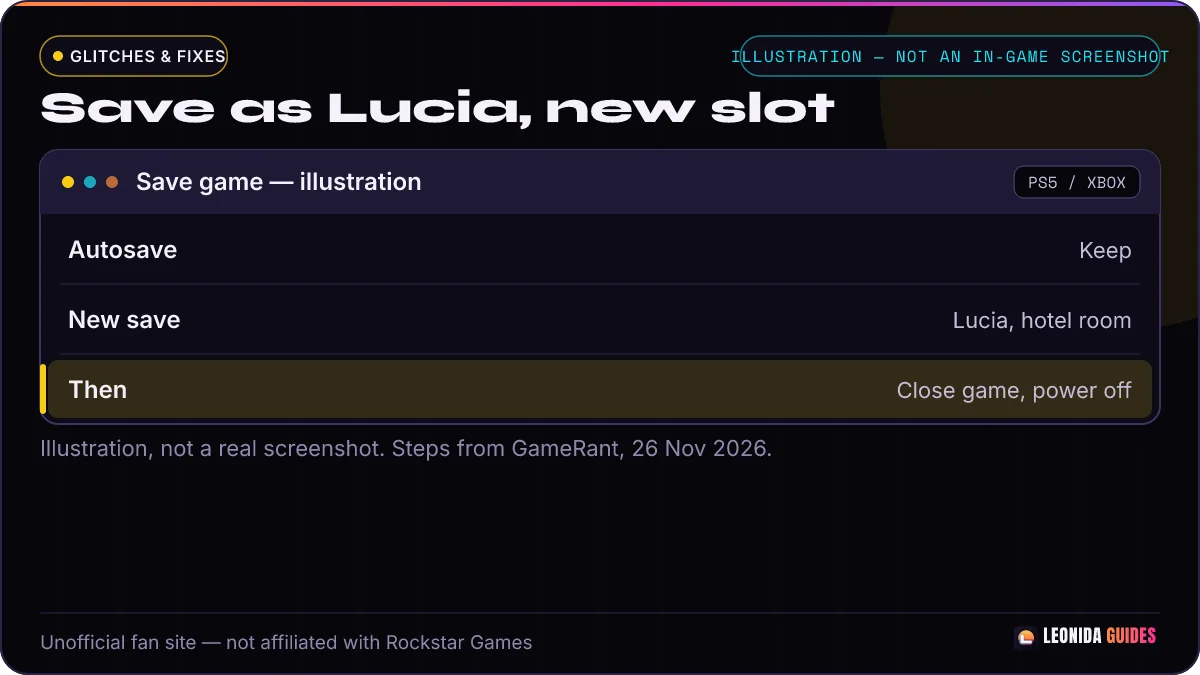
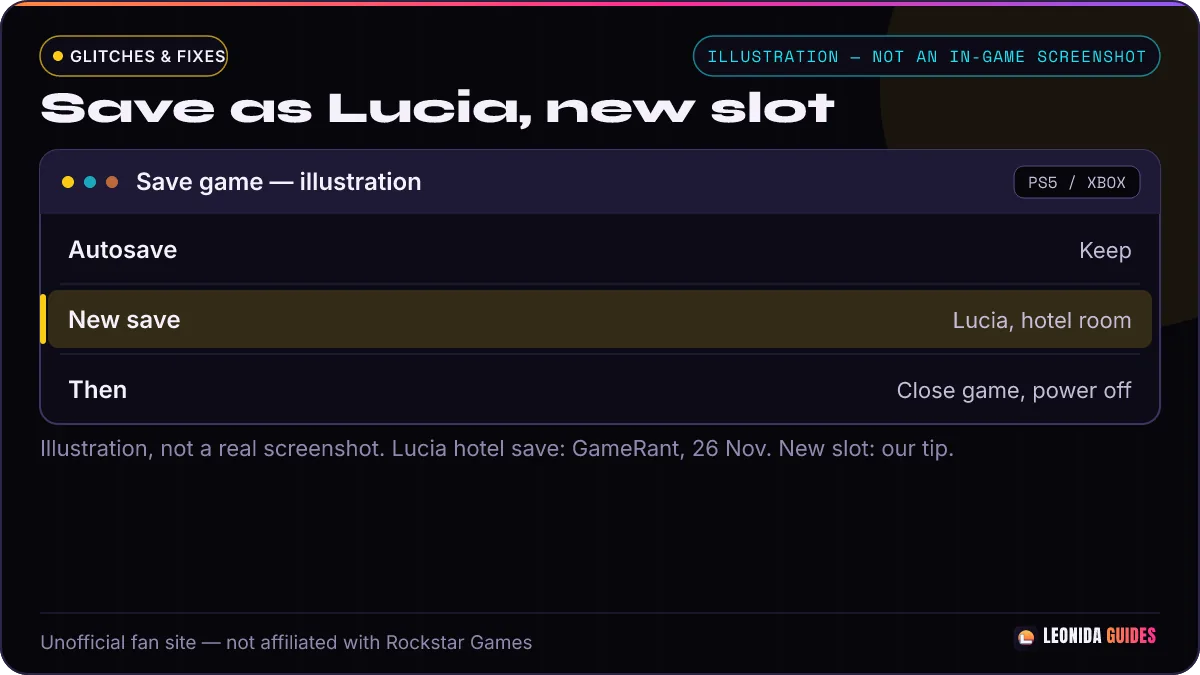
content: auto-publish 2026-11-26T19:34:07.202Z

Changed region(s): [[0.0308, 0.4044, 0.9867, 0.6222], [0.3083, 0.6533, 0.8017, 0.6844], [0.5858, 0.0311, 0.9867, 0.1244]]

diff --git a/content/gta-6-story-stuck-call-not-coming.md b/content/gta-6-story-stuck-call-not-coming.md
@@ -11,127 +11,132 @@ sources:
   - "GameRant | https://gamerant.com/gta-6-raul-plan-glitch-not-calling-lucia-fix-how-ps5-xbox/"
   - "r/GTA6unmoderated thread | https://www.reddit.com/r/GTA6unmoderated/comments/1y1slnh/raul_will_call_lucia_glitch/"
   - "Rockstar Support, GTA VI Launch Updates | https://support.rockstargames.com/articles/sN5pEdFYZdlvijKXd6xpJ/grand-theft-auto-vi-launch-updates-ps5-xbox-series-x-or-s"
+  - "Polygon | https://www.polygon.com/gta-6-update-today-ver-01002002-where-is-ps5-xbox-download-size-patch-notes/"
+  - "VGC | https://www.videogameschronicle.com/news/grand-theft-auto-6-has-received-a-new-patch-which-fixes-autosaving/"
 updated: 2026-11-26
 published: 2026-11-26
 status: live
 publish: true
-spoilers: minor
+spoilers: major
 qa: pending
+draft: true
 ---
 
 # GTA 6 Story Stuck at 72%? Fix for the Call That Never Comes
 
-> - **Quick answer:** finish **every optional job** for the jewelry fence, then **save as Lucia**, fully restart the console and load that save (GameRant, players on Reddit).
-> - **Affects:** PS5 and Xbox Series X|S, at about **72% of the main story**. Update 01.002.002 did not fix it for everyone (GameRant).
-> - **Status: working workaround**, checked 2026-11-26. It worked for GameRant's editor and many players, but not for all.
+> - **Quick answer:** finish the fence's leftover jobs, then **save as Lucia**, fully restart the console and load that save (GameRant, several players on Reddit).
+> - **Affects:** PS5 and Xbox Series X|S, at about **72% of the main story**. The 23 Nov update (version 01.002.002, Polygon, VGC) did not fix it for everyone (GameRant).
+> - **Status: working workaround**, checked 2026-11-26. It worked for GameRant's editor and several players in one Reddit thread, but not for all.
 
 **Words used on this page.** A *softlock* is when the game keeps running but the story cannot go on. A *patch* is an update that fixes mistakes. A *fence* is a person who buys stolen goods. *Split up* means Jason and Lucia go separate ways.
+
+⚠ **Spoiler warning:** some boxes on this page name later story characters and missions. Tap a box only if you want to know.
 
 *Story mode, PS5 and Xbox. No mods or PC tools. Character names below are hidden in spoiler blocks.*
 
 ## Symptoms
 
 - At about **72%** main story completion, a mission tells **Lucia** to wait for a phone call.
-- The call never comes, even after hours of play, sleeping or restarting the game (GameRant).
+- The call never comes, no matter how much time passes (GameRant). GameRant also says a hard reset alone did not help.
 
 :::spoiler Which call and which mission (names a story character)
 GameRant says the mission is **Raul's Plan**: Lucia waits for **Raul** to call, and he never does.
 :::
 
-![Our diagram: a phone with no incoming call and a story bar stuck at 72%. Not a game screenshot.](TODO: image:gta-6-story-stuck-call-not-coming-step-1 — diagram, our own art: silent phone next to a story progress bar stopped at 72%)
+![Our diagram: three boxes that say About 72%, No call, and Both consoles. Not a game screenshot.](TODO: image:gta-6-story-stuck-call-not-coming-step-1 — diagram, our own art: three info cards labelled About 72%, No call, and Both consoles)
 *Caption: Diagram. The bug: the story waits for a call that never comes.*
 
 ## Who is affected
 
 | Platform | Affected? | Version / patch | Source |
 |---|---|---|---|
-| PS5 | Yes | 01.002.002 | GameRant, Reddit |
-| Xbox Series X\|S | Yes | 01.002.002 | GameRant, Reddit |
+| PS5 | Yes | 01.002.002 (23 Nov) | Affected: GameRant, Reddit. Version: Polygon, VGC |
+| Xbox Series X\|S | Yes | 01.002.002 (23 Nov) | Affected: GameRant, Reddit. Version: Polygon, VGC |
 
 ## Fixes, fastest first
 
 Save your game in a **new slot** before you try anything.
 
-### Fix 1: Finish the fence's optional jobs (about 20 to 60 minutes)
+### Fix 1: Finish the fence's leftover jobs
 
-1. Open the map and check the jobs from the **jewelry fence**. Do the optional ones too, not only the story ones.
-2. Rob the stores they send you to. One store may not show on the map, so check the list twice ([u/jastheneet](https://www.reddit.com/r/GTA6unmoderated/comments/1y1slnh/raul_will_call_lucia_glitch/19szb6o9jvja9/)).
-3. Deliver the stolen pieces to the fence.
+1. Open the map and check the jobs from the **fence**. Do the leftover ones too, not only the story ones.
+2. GameRant's editor needed the optional jobs you pay the fence for tips. For him, that meant robbing a couple of cash-advance stores. Several players in one Reddit thread needed all 3 jewelry jobs instead ([u/DjCedrics](https://www.reddit.com/r/GTA6unmoderated/comments/1y1slnh/raul_will_call_lucia_glitch/19szznxob2w6c/), [u/jastheneet](https://www.reddit.com/r/GTA6unmoderated/comments/1y1slnh/raul_will_call_lucia_glitch/19szb6o9jvja9/)).
+3. One job may not show on the map, so check the list twice ([u/jastheneet](https://www.reddit.com/r/GTA6unmoderated/comments/1y1slnh/raul_will_call_lucia_glitch/19szb6o9jvja9/)).
 4. Switch to **Lucia** and **split up** from Jason.
-5. Walk around for a minute or two. Players say the call came within about 2 minutes ([u/newbee_Nerd_69](https://www.reddit.com/r/GTA6unmoderated/comments/1y1slnh/raul_will_call_lucia_glitch/19szdug1x7ejn/)).
+5. Walk around for a short time. One player says the call came within about 2 minutes ([u/newbee_Nerd_69](https://www.reddit.com/r/GTA6unmoderated/comments/1y1slnh/raul_will_call_lucia_glitch/19szdug1x7ejn/)).
 
 GameRant's editor says a console restart alone did not help until these jobs were done.
 
-:::spoiler Who the jewelry fence is (names a Chapter 3 character)
-The fence is **Yasmani**. GameRant says some of the jobs need you to pay him for tips. Players say all **3** jewelry jobs must be done ([u/DjCedrics](https://www.reddit.com/r/GTA6unmoderated/comments/1y1slnh/raul_will_call_lucia_glitch/19szznxob2w6c/), [u/jastheneet](https://www.reddit.com/r/GTA6unmoderated/comments/1y1slnh/raul_will_call_lucia_glitch/19szb6o9jvja9/)).
+:::spoiler Who the fence is (names a Chapter 3 character)
+The fence is **Yasmani**. GameRant needed his paid-tip jobs (cash-advance store robberies). Several players needed all 3 jewelry jobs ([u/DjCedrics](https://www.reddit.com/r/GTA6unmoderated/comments/1y1slnh/raul_will_call_lucia_glitch/19szznxob2w6c/), [u/jastheneet](https://www.reddit.com/r/GTA6unmoderated/comments/1y1slnh/raul_will_call_lucia_glitch/19szb6o9jvja9/)).
 :::
 
-### Fix 2: Save as Lucia and fully restart (about 5 minutes)
+### Fix 2: Save as Lucia and fully restart
 
 1. Clear every notification and reminder on **Lucia's phone** (GameRant).
 2. Make sure Jason and Lucia are **split up**.
 3. As Lucia, **save** in the Vice City hotel room (GameRant).
-4. Close the game. **PS5:** press the **Options button** on GTA 6 on the home screen, then **Close Game**. **Xbox:** press the **Xbox button**, highlight GTA 6, press the **Menu button**, then **Quit**.
-5. Turn the console **fully off**. Do not use Rest Mode or Quick Resume. GameRant held the power button for 10 to 30 seconds.
-6. Start the game, load the save and leave the room **as Lucia only**.
+4. Close the game, then turn the console **fully off**. GameRant held the power button for 10 to 30 seconds (a hard reset).
+5. Start the game, load the save and leave the room **as Lucia only**.
 
-Players say missed texts and calls can arrive all at once after this ([u/yuvra109](https://www.reddit.com/r/GTA6unmoderated/comments/1y1slnh/raul_will_call_lucia_glitch/19t1th4y6mmox/)).
+One player says missed texts and calls can arrive all at once after this ([u/yuvra109](https://www.reddit.com/r/GTA6unmoderated/comments/1y1slnh/raul_will_call_lucia_glitch/19t1th4y6mmox/)).
 
 ![Our drawing of a save menu with a new save slot picked as Lucia. Not a real screenshot.](TODO: image:gta-6-story-stuck-call-not-coming-step-2 — menu screen, our own illustration: save game list with "New save" highlighted and a Lucia icon)
 *Caption: Menu screen. Save as Lucia in a new slot before you restart.*
 
-### Fix 3: Sleep or save and reload (about 2 minutes)
+### Fix 3: Sleep, or save and reload
 
 1. Go to the hotel and **sleep** until noon ([u/EvilResident168](https://www.reddit.com/r/GTA6unmoderated/comments/1y1slnh/raul_will_call_lucia_glitch/19t1r4jg03tyd/)).
-2. Or **save**, then **load** that save straight away ([u/AnonymousWelshGuy](https://www.reddit.com/r/GTA6unmoderated/comments/1y1slnh/raul_will_call_lucia_glitch/19szhzs1f3n1h/)).
+2. One player says they **saved**, **loaded**, then slept at the hotel, and the call came straight away ([u/AnonymousWelshGuy](https://www.reddit.com/r/GTA6unmoderated/comments/1y1slnh/raul_will_call_lucia_glitch/19szhzs1f3n1h/)).
+3. The same player also suggested save then load only, but that was a suggestion, not a report that it worked ([u/AnonymousWelshGuy](https://www.reddit.com/r/GTA6unmoderated/comments/1y1slnh/raul_will_call_lucia_glitch/19szdaqp4rejo/)).
 
 These are single player reports. They are quick, so try them, but they did not work for everyone.
 
 ### Fix 4: Check other open story jobs
 
 :::spoiler Other jobs players finished before the call came (names story characters)
-- A player says finishing **Randy's** car theft story mission made the call come within seconds ([u/BeenThereDoneThat05](https://www.reddit.com/r/GTA6unmoderated/comments/1y1slnh/raul_will_call_lucia_glitch/19t2dq8rbdz6t/)).
+- A player says finishing **Randy's** car theft story mission made the call come within 2 seconds ([u/BeenThereDoneThat05](https://www.reddit.com/r/GTA6unmoderated/comments/1y1slnh/raul_will_call_lucia_glitch/19t2dq8rbdz6t/)).
 - Another says doing Lucia's phone reminders led to a new job and a call from **Mia**, Lucia's mum, and then the call came ([u/KingofLeonida](https://www.reddit.com/r/GTA6unmoderated/comments/1y1slnh/raul_will_call_lucia_glitch/19t1en728j71f/)).
 - GameRant says after its fix, a different character called first with a new story mission. Only after that, and after paying the lawyer **$75,000**, did the call come.
 - Last resort: one player loaded an older save and did everything else before paying the lawyer ([u/TheMentalMadman](https://www.reddit.com/r/GTA6unmoderated/comments/1y1slnh/raul_will_call_lucia_glitch/19t21qc4eondu/)).
 :::
 
-![Our flow chart: fence jobs, save as Lucia and restart, sleep, check other jobs, then contact Support. Not a game screenshot.](TODO: image:gta-6-story-stuck-call-not-coming-step-3 — diagram, our own flow chart: Fix 1 > Fix 2 > Fix 3 > Fix 4 > Contact Support)
+![Our flow chart: leftover fence jobs, save as Lucia and restart, sleep, check other jobs, then contact Support. Not a game screenshot.](TODO: image:gta-6-story-stuck-call-not-coming-step-3 — diagram, our own flow chart: Fix 1 > Fix 2 > Fix 3 > Fix 4 > Contact Support)
 *Caption: Diagram. Try the fixes in this order.*
 
 ## Official patch status
 
 | Item | Detail |
 |---|---|
-| Latest patch | 01.002.002, 23 Nov 2026 |
-| Does it fix this? | The notes list a fix for phone calls not triggering, including story calls. GameRant says this bug still happens after it. |
+| Latest patch | 01.002.002, 23 Nov 2026 (version: [Polygon](https://www.polygon.com/gta-6-update-today-ver-01002002-where-is-ps5-xbox-download-size-patch-notes/), [VGC](https://www.videogameschronicle.com/news/grand-theft-auto-6-has-received-a-new-patch-which-fixes-autosaving/); date and notes: [Rockstar Support](https://support.rockstargames.com/articles/sN5pEdFYZdlvijKXd6xpJ/grand-theft-auto-vi-launch-updates-ps5-xbox-series-x-or-s)) |
+| Does it fix this? | The notes list a fix for phone calls not triggering, including story calls. GameRant says this bug still happens after it. One player, [u/jastheneet](https://www.reddit.com/r/GTA6unmoderated/comments/1y1slnh/raul_will_call_lucia_glitch/19szb6o9jvja9/), later edited their post to say Rockstar seems to have resolved this issue. |
 | Patch notes | [Rockstar Support, Launch Updates](https://support.rockstargames.com/articles/sN5pEdFYZdlvijKXd6xpJ/grand-theft-auto-vi-launch-updates-ps5-xbox-series-x-or-s) |
 | Last checked | 2026-11-26 |
 
-**Status: working workaround** (checked 2026-11-26). GameRant's editor fixed their own save with Fix 1 and Fix 2. Some players on Reddit say nothing worked for them yet. Not tested by us.
+**Status: working workaround** (checked 2026-11-26). GameRant's editor fixed their own save with Fix 1 and Fix 2. Some players on Reddit say nothing worked for them yet. One player later edited their comment to say it seems resolved, while GameRant still saw the bug after the patch. Not tested by us.
 
 ## When to contact Support
 
-- **Gameplay, patches, bugs:** [Rockstar Support](https://support.rockstargames.com/). Players in the thread say they sent tickets. More reports help Rockstar find the bug.
+- **Gameplay, patches, bugs:** [Rockstar Support](https://support.rockstargames.com/). One player in the thread, [u/jastheneet](https://www.reddit.com/r/GTA6unmoderated/comments/1y1slnh/raul_will_call_lucia_glitch/19sys5py0uau8/), says they sent a ticket. More reports help Rockstar find the bug.
 - **Account or console problems:** PlayStation Support or Xbox Support.
 
 ## FAQ
 
 ### Why is my GTA 6 story stuck at 72%?
-A phone call that starts the next mission does not trigger. Rockstar has not said why. Unfinished optional jobs seem to block it for many players.
+A phone call that starts the next mission does not trigger. Rockstar has not said why. Unfinished leftover jobs seem to block it for GameRant's editor and several players in one Reddit thread.
 
 ### Do I have to start a new game?
-Usually not. GameRant and many players fixed it on their save. Try every fix above first.
+Usually not. GameRant's editor and several players in one Reddit thread fixed it on their save. Try every fix above first.
 
 ### Did the patch fix it?
-The 23 Nov patch notes list a fix for story calls not triggering, but GameRant says the bug still happens.
+The 23 Nov patch notes list a fix for story calls not triggering, but GameRant says the bug still happens. One player later wrote that it seems resolved.
 
 ### Can I lose my save?
 Save in a new slot first. Close the game properly before you turn the console off, so you do not lose progress.
 
 ## Credits
 
-Fix tested by Dalton Cooper at [GameRant](https://gamerant.com/gta-6-raul-plan-glitch-not-calling-lucia-fix-how-ps5-xbox/) (26 Nov). Player fixes from the [r/GTA6unmoderated thread](https://www.reddit.com/r/GTA6unmoderated/comments/1y1slnh/raul_will_call_lucia_glitch/) started by u/Pleasant_Row4135, with replies from u/DjCedrics, u/jastheneet, u/newbee_Nerd_69, u/yuvra109, u/EvilResident168, u/AnonymousWelshGuy, u/BeenThereDoneThat05, u/KingofLeonida and u/TheMentalMadman. Patch notes: [Rockstar Support](https://support.rockstargames.com/articles/sN5pEdFYZdlvijKXd6xpJ/grand-theft-auto-vi-launch-updates-ps5-xbox-series-x-or-s).
+Fix tested by Dalton Cooper at [GameRant](https://gamerant.com/gta-6-raul-plan-glitch-not-calling-lucia-fix-how-ps5-xbox/) (26 Nov). Player fixes from the [r/GTA6unmoderated thread](https://www.reddit.com/r/GTA6unmoderated/comments/1y1slnh/raul_will_call_lucia_glitch/) started by u/Pleasant_Row4135, with replies from u/DjCedrics, u/jastheneet, u/newbee_Nerd_69, u/yuvra109, u/EvilResident168, u/AnonymousWelshGuy, u/BeenThereDoneThat05, u/KingofLeonida and u/TheMentalMadman. Patch notes: [Rockstar Support](https://support.rockstargames.com/articles/sN5pEdFYZdlvijKXd6xpJ/grand-theft-auto-vi-launch-updates-ps5-xbox-series-x-or-s). Version 01.002.002: [Polygon](https://www.polygon.com/gta-6-update-today-ver-01002002-where-is-ps5-xbox-download-size-patch-notes/) and [VGC](https://www.videogameschronicle.com/news/grand-theft-auto-6-has-received-a-new-patch-which-fixes-autosaving/).
 
 Related: [GTA 6 not working](/glitches/gta-6-not-working/) · [GTA 6 PS5 fixes](/glitches/gta-6-ps5-fixes/) · [GTA 6 Xbox fixes](/glitches/gta-6-xbox-fixes/)
 
@@ -139,7 +144,8 @@ Related: [GTA 6 not working](/glitches/gta-6-not-working/) · [GTA 6 PS5 fixes](
 
 | Date | What changed |
 |---|---|
-| 2026-11-26 | Page created from GameRant's tested fix, the r/GTA6unmoderated thread and the 01.002.002 patch notes. Not tested by us. |
+| 2026-11-26 | Page created from GameRant's tested fix, the r/GTA6unmoderated thread and the 23 Nov patch notes. Not tested by us. |
+| 2026-11-26 | SEARCH QA fixes: credited Polygon and VGC for the version number, labelled GameRant's paid-tip jobs and the players' 3 jewelry jobs separately, corrected the save/load comment, noted u/jastheneet's later edit, removed unsourced button steps and made-up fix times. |
 
 ---
 *Unofficial fan site, not affiliated with Rockstar Games or Take-Two.*

diff --git a/content/gta-6-weather-not-changing.md b/content/gta-6-weather-not-changing.md
@@ -14,12 +14,14 @@ sources:
   - "GameRoll on X | https://x.com/GameRoll_/status/2125764422371029015"
   - "PlayStation Support, Safe Mode | https://www.playstation.com/en-us/support/hardware/safe-mode-playstation/"
   - "PlayStationInfo | https://www.playstationinfo.de/en/2026/11/26/gta-6-only-shows-sunshine-for-many-players-and-a-simple-ps5-trick-could-fix-the-problem/"
+  - "Rockstar Support, Clearing the cache on Xbox Series X|S | https://support.rockstargames.com/articles/7rfD2UUL8BDfHFB1CkDwI9/clearing-the-cache-on-xbox-series-x-s-consoles"
 updated: 2026-11-26
 published: 2026-11-26
 status: live
 publish: true
 spoilers: none
 qa: pending
+draft: true
 ---
 
 # GTA 6 Weather Not Changing? PS5 Cache Fix and Patch Status
@@ -37,7 +39,7 @@ qa: pending
 - The sky stays clear and sunny for many in-game days.
 - You almost never see rain, fog or a storm, even after many hours.
 
-![Our diagram: a sun icon that never changes next to a calendar of in-game days. Not a game screenshot.](TODO: image:gta-6-weather-not-changing-step-1 — diagram, our own art: sunny sky stuck across seven in-game days)
+![Our diagram with three text boxes: Always sunny, No rain or fog, and After the patch some PS5 players still see it on 01.002.002. Not a game screenshot.](TODO: image:gta-6-weather-not-changing-step-1 — diagram, our own art: three boxes for always sunny, no rain or fog, and still stuck after the patch)
 *Caption: Diagram. The bug: the same sunny weather, day after day.*
 
 ## First check: is it really a bug?
@@ -52,7 +54,7 @@ qa: pending
 |---|---|---|---|
 | PS5 | Yes, some players after the patch | 01.002.002 | IGN, Insider Gaming |
 | PS5 Pro | Yes, one player report | 01.002.002 | [@NiffoLeon on X](https://x.com/NiffoLeon/status/2125911934360867252) |
-| Xbox Series X\|S | Unknown | 01.002.002 | No outlet has tested a fix |
+| Xbox Series X\|S | Mixed reports | 01.002.002 | Insider Gaming says the cache clear appears to work; PlayStationInfo says it is not yet clear |
 
 ## Fixes, fastest first
 
@@ -65,25 +67,40 @@ This trick was shared by [GameRoll on X](https://x.com/GameRoll_/status/21257644
 3. **Press and hold the power button.** Let go after the **second beep**, about 7 seconds (Insider Gaming).
 4. **Plug in your controller with a USB cable.** Press the **PS button**.
 5. Pick **Clear Cache and Rebuild Database** (option 6).
-6. Pick **Clear System Software Cache**. Select **OK**.
+6. Pick **Clear System Software Cache**. Confirm it (PlayStationInfo).
 7. Wait for the PS5 to restart. Start GTA 6 and load your save.
 
-**Do not pick any reset option** lower in the Safe Mode menu. Those can wipe the console. Clearing the cache does not delete your saves or games (IGN, [PlayStation Support](https://www.playstation.com/en-us/support/hardware/safe-mode-playstation/)).
+**Do not pick any reset option** lower in the Safe Mode menu. Those can wipe the console. The option names come from [PlayStation Support](https://www.playstation.com/en-us/support/hardware/safe-mode-playstation/). Clearing the cache does not delete your saves or games (IGN, [PlayStationInfo](https://www.playstationinfo.de/en/2026/11/26/gta-6-only-shows-sunshine-for-many-players-and-a-simple-ps5-trick-could-fix-the-problem/)).
 
 The weather may not change at once. Play for a while and drive to a new area (Insider Gaming).
 
 ![Our drawing of the PS5 Safe Mode menu with option 6 highlighted. Not a real screenshot.](TODO: image:gta-6-weather-not-changing-step-2 — menu screen, our own illustration: PS5 Safe Mode list with "6 Clear Cache and Rebuild Database" highlighted, then "Clear System Software Cache")
 *Caption: Menu screen. Safe Mode option 6, then Clear System Software Cache.*
 
-### Fix 2: Fully close the game and restart the console (about 3 minutes)
+### Fix 2: Clear the Xbox cache (about 2 minutes)
+
+[Insider Gaming](https://insider-gaming.com/fix-weather-bug-gta-6-rain-storms/) says the same general workaround appears to work on Xbox Series X|S. It also says Rockstar has given these cache-clearing steps. They match [Rockstar Support's Xbox cache guide](https://support.rockstargames.com/articles/7rfD2UUL8BDfHFB1CkDwI9/clearing-the-cache-on-xbox-series-x-s-consoles).
+
+1. Press the power button to completely shut down your Xbox.
+2. Unplug the power cable from the console.
+3. Leave it unplugged for two minutes.
+4. Plug the cable back in and turn the Xbox on.
+
+Rockstar Support says this does not change your save data, but it will reset your brightness and language settings.
+
+The weather may not change at once. Play for a while and drive to a new area (Insider Gaming).
+
+[PlayStationInfo](https://www.playstationinfo.de/en/2026/11/26/gta-6-only-shows-sunshine-for-many-players-and-a-simple-ps5-trick-could-fix-the-problem/) says the result on Xbox is not yet clear.
+
+### Fix 3: Fully close the game and restart the console (about 3 minutes)
 
 1. Save your game.
-2. **PS5:** press the **Options button** on GTA 6 in the home screen, then **Close Game**. **Xbox:** press the **Xbox button**, highlight GTA 6, press the **Menu button**, then **Quit**.
+2. Fully close the game.
 3. Restart the console. Load your save.
 
-[PlayStationInfo](https://www.playstationinfo.de/en/2026/11/26/gta-6-only-shows-sunshine-for-many-players-and-a-simple-ps5-trick-could-fix-the-problem/) suggests this for Xbox players, where the cache trick is not tested.
+[PlayStationInfo](https://www.playstationinfo.de/en/2026/11/26/gta-6-only-shows-sunshine-for-many-players-and-a-simple-ps5-trick-could-fix-the-problem/) suggests this, and says the Xbox result is not yet clear.
 
-![Our flow chart: update, check chapter, clear cache, then wait for a patch. Not a game screenshot.](TODO: image:gta-6-weather-not-changing-step-3 — diagram, our own flow chart: Update > Check chapter > Clear PS5 cache > Wait for patch)
+![Our flow chart: update, check chapter, clear the PS5 cache, and if you are still stuck, report it to Rockstar Support. Not a game screenshot.](TODO: image:gta-6-weather-not-changing-step-3 — diagram, our own flow chart: Update > Check chapter > Clear PS5 cache > Still stuck: Report it to Rockstar Support)
 *Caption: Diagram. Try the steps in this order.*
 
 ## Official patch status
@@ -112,7 +129,7 @@ The weather may not change at once. Play for a while and drive to a new area (In
 ## FAQ
 
 ### Does clearing the PS5 cache delete my GTA 6 save?
-No. IGN says clearing the system software cache does not delete saves or games. Do not pick the reset options lower in the Safe Mode menu.
+No. IGN and PlayStationInfo say clearing the system software cache does not delete saves or games. Do not pick the reset options lower in the Safe Mode menu.
 
 ### Did Rockstar fix the GTA 6 weather bug?
 Rockstar's 23 Nov patch notes list a fix for weather not changing for extended periods. Some PS5 players still report the problem after it.
@@ -121,11 +138,11 @@ Rockstar's 23 Nov patch notes list a fix for weather not changing for extended p
 Rockstar told IGN the first chapter has mostly good weather and storms grow later. Rain is local, so you can miss it.
 
 ### Does the cache trick work on Xbox?
-No outlet has tested it on Xbox yet. Update the game, fully quit it, and restart the console.
+Insider Gaming says clearing the Xbox cache (unplug the power for 2 minutes) appears to work too. PlayStationInfo says it is not yet clear on Xbox.
 
 ## Credits
 
-Workaround shared by GameRoll on X ([post](https://x.com/GameRoll_/status/2125764422371029015)), first raised by the X user mauricioce85796 (credit from Insider Gaming). Reported by [IGN](https://in.ign.com/grand-theft-auto-vi/278006/gta-6-weather-still-not-varied-even-after-the-patch-ps5-players-are-sharing-a-method-that-may-help-r) and [Insider Gaming](https://insider-gaming.com/fix-weather-bug-gta-6-rain-storms/) on 26 Nov. Patch notes: [Rockstar Support](https://support.rockstargames.com/articles/sN5pEdFYZdlvijKXd6xpJ/grand-theft-auto-vi-launch-updates-ps5-xbox-series-x-or-s).
+Workaround shared by GameRoll on X ([post](https://x.com/GameRoll_/status/2125764422371029015)), first raised by the X user mauricioce85796 (credit from Insider Gaming). Reported by [IGN](https://in.ign.com/grand-theft-auto-vi/278006/gta-6-weather-still-not-varied-even-after-the-patch-ps5-players-are-sharing-a-method-that-may-help-r) and [Insider Gaming](https://insider-gaming.com/fix-weather-bug-gta-6-rain-storms/) on 26 Nov. Xbox cache steps also from Insider Gaming, and they match [Rockstar Support's Xbox cache guide](https://support.rockstargames.com/articles/7rfD2UUL8BDfHFB1CkDwI9/clearing-the-cache-on-xbox-series-x-s-consoles). PlayStationInfo reports that the Xbox result is not yet clear. Patch notes: [Rockstar Support](https://support.rockstargames.com/articles/sN5pEdFYZdlvijKXd6xpJ/grand-theft-auto-vi-launch-updates-ps5-xbox-series-x-or-s).
 
 Related: [GTA 6 PS5 fixes](/glitches/gta-6-ps5-fixes/) · [GTA 6 Xbox fixes](/glitches/gta-6-xbox-fixes/) · [GTA 6 not working](/glitches/gta-6-not-working/)
 
@@ -134,6 +151,7 @@ Related: [GTA 6 PS5 fixes](/glitches/gta-6-ps5-fixes/) · [GTA 6 Xbox fixes](/gl
 | Date | What changed |
 |---|---|
 | 2026-11-26 | Page created from Rockstar's patch notes, IGN, Insider Gaming and GameRoll's post. Not tested by us. |
+| 2026-11-26, 20:31 CET | SEARCH re-check: added the Xbox cache steps from Insider Gaming, and noted that PlayStationInfo says the Xbox result is not yet clear. Credited IGN and PlayStationInfo (not PlayStation Support) for the save warning. Fixed the step-1 and step-3 images. |
 
 ---
 *Unofficial fan site, not affiliated with Rockstar Games or Take-Two.*

diff --git a/content/gta-6-how-to-make-money-fast.md b/content/gta-6-how-to-make-money-fast.md
@@ -10,6 +10,8 @@ description: "GTA 6 how to make money fast: 4 ways GameSpot and Destructoid reco
 sources:
   - https://www.gamespot.com/articles/best-ways-to-make-money-fast-in-gta-6/
   - https://www.destructoid.com/the-best-and-fastest-ways-to-make-money-in-gta-6/
+  - "GamesRadar+ | https://www.gamesradar.com/games/grand-theft-auto/gta-6-sell-cars-bikes-how-to/"
+  - "GamesRadar+ fence guide | https://www.gamesradar.com/games/grand-theft-auto/gta-6-fences/"
   - "PowerPyx | https://www.powerpyx.com/gta-6-money-guide-how-to-get-money-fast/"
   - "u/chill2308 on r/GTAVI | https://www.reddit.com/r/GTAVI/comments/1y63mhj/money_tip_chapter_3/"
   - "r/GTAVI car selling thread | https://www.reddit.com/r/GTAVI/comments/1y5liiu/selling_cars_is_such_a_good_way_to_make_money/"
@@ -28,7 +30,7 @@ qa: live-review
 
 **Words used on this page.** *Hideout* is a place where a gang keeps money and goods. *Loot* means things you take. A *fence* is a shop person who buys stolen things. *Focus mode* is a view that shows useful items around you. *Payout* is the money you get.
 
-*We have not timed these methods ourselves yet, so there are no "dollars per hour" numbers here. Facts come from GameSpot (18 Nov 2026) and Destructoid (18 Nov 2026), plus PowerPyx and marked player tips in the car section (26 Nov 2026). No glitches or exploits.*
+*We have not timed these methods ourselves yet, so there are no "dollars per hour" numbers here. Facts come from GameSpot (18 Nov 2026) and Destructoid (18 Nov 2026), plus PowerPyx, GamesRadar, and marked player tips in the car section (26 Nov 2026). No glitches or exploits.*
 
 ## The 4 best ways, at a glance
 
@@ -72,25 +74,27 @@ GameSpot says some hideouts have rare guns and vehicles. You can sell those too.
 4. Drive it to the buyer. GameSpot says the reward is often **over $10,000**.
 5. Keep the car in good shape. GameSpot says a later buyer pays more for clean cars.
 
-Two limits: Destructoid says you can only steal a set number of cars per day. GameSpot says a **Pay 'N' Spray** also buys cars, but not cars with a high-end tracker.
+Two limits: Destructoid says you can only steal a set number of cars a day. GameSpot says a **Pay 'N' Spray** also buys cars, but not cars with a high-end tracker.
+
+:::spoiler Who buys the cars and where (names two characters and two places)
+GameSpot says the first buyer is **Moses** in **Port Gellhorn**. He gives you tools for mid-range cars. Later you meet **Randy** in western Vice City. He deals in high-end cars, teaches key cloning, and has a list of more than a dozen cars.
+:::
+
+**Player tips for Advanced-tracker cars you take to Randy (unconfirmed).** In the [r/GTAVI car selling thread](https://www.reddit.com/r/GTAVI/comments/1y5liiu/selling_cars_is_such_a_good_way_to_make_money/), [u/misplacedsagacity](https://www.reddit.com/r/GTAVI/comments/1y5liiu/selling_cars_is_such_a_good_way_to_make_money/19t7dtmpie5b7/) says the tracker does not go off if you move the car with a **tow truck**. [u/-lugia-](https://www.reddit.com/r/GTAVI/comments/1y5liiu/selling_cars_is_such_a_good_way_to_make_money/19t7453wcvo83/) says the tracker also stays quiet if the **other main character** drives the stolen car while you drive another, so it arrives at Randy without a scratch.
 
 ### Faster car cash: sell at a Pay 'N' Spray
 
 A *tracker* is a device in a car that tells the police where it is. *WAiNK* is the phone app that scans a car before you steal it.
 
-1. Get to **early Chapter 3**. [PowerPyx](https://www.powerpyx.com/gta-6-money-guide-how-to-get-money-fast/) (a guide site) says that is when any Pay 'N' Spray starts buying cars with a **Standard** tracker. These pay more, **around $4,000 or more** for a good car.
+GameSpot does not say when Pay 'N' Spray sales open, and it says a shop will not take a car with a high-end tracker. [PowerPyx](https://www.powerpyx.com/gta-6-money-guide-how-to-get-money-fast/) and [GamesRadar](https://www.gamesradar.com/games/grand-theft-auto/gta-6-sell-cars-bikes-how-to/) disagree: they say selling stolen cars that have a tracker opens in **Chapter 3**. A Standard tracker is not the high-end (Advanced) tracker GameSpot means.
+
+1. Get to **early Chapter 3**. PowerPyx says that is when any Pay 'N' Spray starts buying cars with a **Standard** tracker. GamesRadar says Moses later puts in a good word with Pay 'N' Sprays, and [its fence guide](https://www.gamesradar.com/games/grand-theft-auto/gta-6-fences/) says you wait until Chapter 3 to sell cars that have a tracker. PowerPyx says a good Standard-tracker car pays **around $4,000 or more**.
 2. Go where nice cars drive by. [u/chill2308](https://www.reddit.com/r/GTAVI/comments/1y63mhj/money_tip_chapter_3/) takes a RydeMe to **Vice Beach**.
-3. Scan cars that have a driver with **WAiNK**. Look for a car that shows **Standard** tracking and a high sale value.
-4. Steal it. Drive carefully: damage lowers the price.
-5. Drive into a Pay 'N' Spray and choose **Sell**.
+3. Scan cars that have a driver with **WAiNK**. Look for a car that shows **Standard** tracking and a high sale value (u/chill2308).
+4. Steal it. Drive carefully: GamesRadar says buyers pay more for cars in good condition.
+5. Drive into a Pay 'N' Spray. GamesRadar says the menu there has a sell option (it describes this for a car you own).
 
-**What it pays: unconfirmed.** u/chill2308 says the best Standard-tracker cars pay **$9,000 to $12,000** each, about **$30,000 a day** with three sales. That is one player's claim. PowerPyx gives the lower $4,000+ figure. The daily limit is also a player report (u/chill2308 thinks it is three cars).
-
-**Player tips (unconfirmed).** In the [r/GTAVI car selling thread](https://www.reddit.com/r/GTAVI/comments/1y5liiu/selling_cars_is_such_a_good_way_to_make_money/), [u/misplacedsagacity](https://www.reddit.com/r/GTAVI/comments/1y5liiu/selling_cars_is_such_a_good_way_to_make_money/19t7dtmpie5b7/) says the tracker does not go off if you move the car with a **tow truck**. [u/-lugia-](https://www.reddit.com/r/GTAVI/comments/1y5liiu/selling_cars_is_such_a_good_way_to_make_money/19t7453wcvo83/) says the tracker also stays quiet if your **partner** drives the stolen car while you drive another, so it arrives without a scratch.
-
-:::spoiler Who buys the cars and where (names two characters and two places)
-GameSpot says the first buyer is **Moses** in **Port Gellhorn**. He gives you tools for mid-range cars. Later you meet **Randy** in western Vice City. He deals in high-end cars, teaches key cloning, and has a list of more than a dozen cars.
-:::
+**What it pays: unconfirmed.** u/chill2308 says the best Standard-tracker cars pay **$9,000 to $12,000** each, about **$30,000 a day** with three sales. That is one player's claim. PowerPyx gives the lower $4,000+ figure. Destructoid says you can only steal a set number of cars a day, and GamesRadar says Pay 'N' Sprays only buy a set number a day. Neither gives the number; u/chill2308 thinks it is three.
 
 ## Method 3: Treasure dives
 
@@ -144,6 +148,7 @@ This page covers normal methods only. A story-mode warehouse respawn glitch is r
 | 2026-11-18 | Filled from GameSpot's and Destructoid's money guides (18 Nov). Not timed by us yet. |
 | 2026-11-25 | FAQ now links to our separate money glitch page. |
 | 2026-11-26 | Added Pay 'N' Spray car selling steps from PowerPyx, with player payouts and tips marked unconfirmed. |
+| 2026-11-26 | QA fix: added GamesRadar for the Chapter 3 unlock, noted where GameSpot disagrees, credited Destructoid and GamesRadar for the daily limit, moved the Randy tips, and sourced the sell step. |
 
 ---
 *Unofficial fan site, not affiliated with Rockstar Games or Take-Two.*
